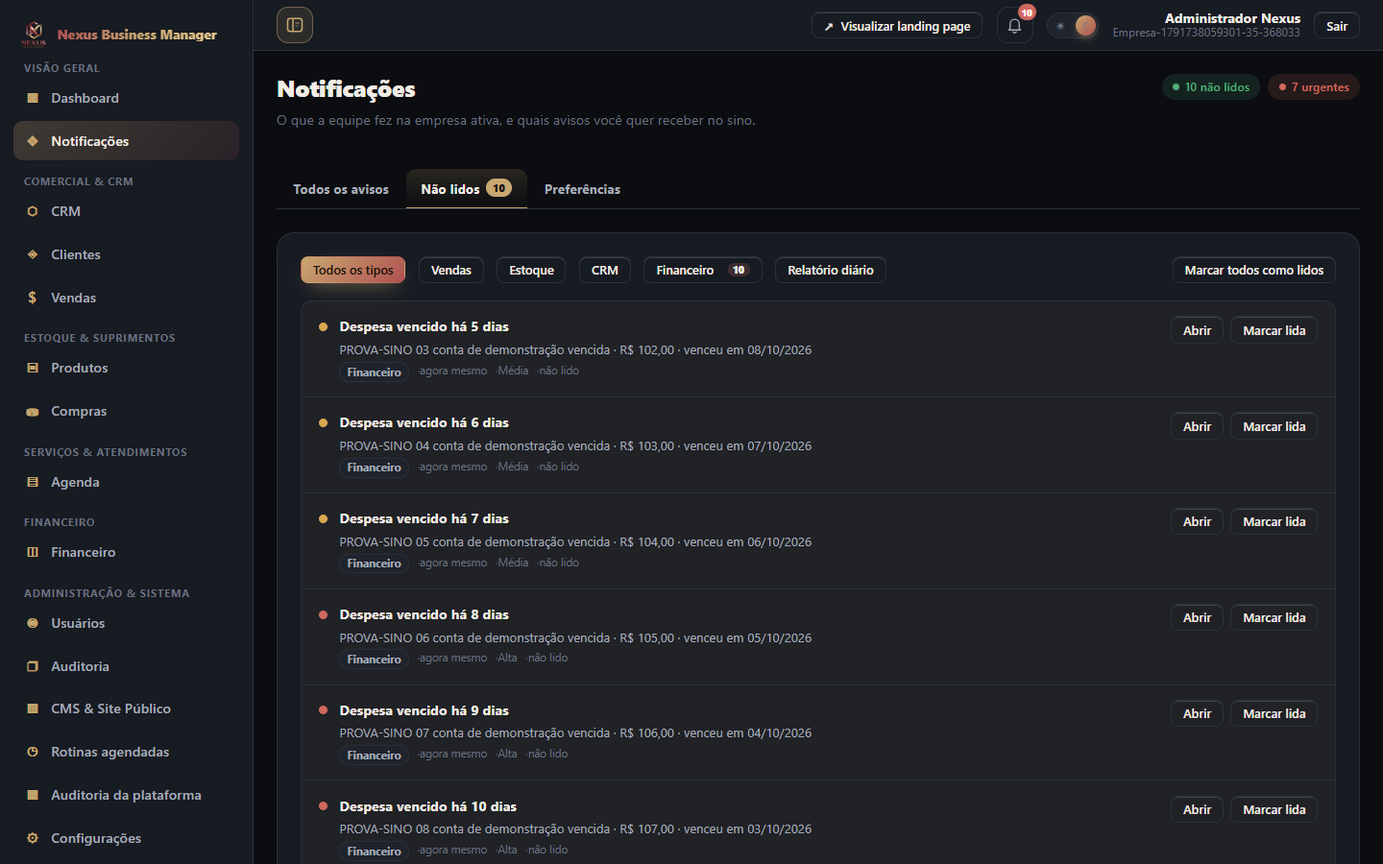
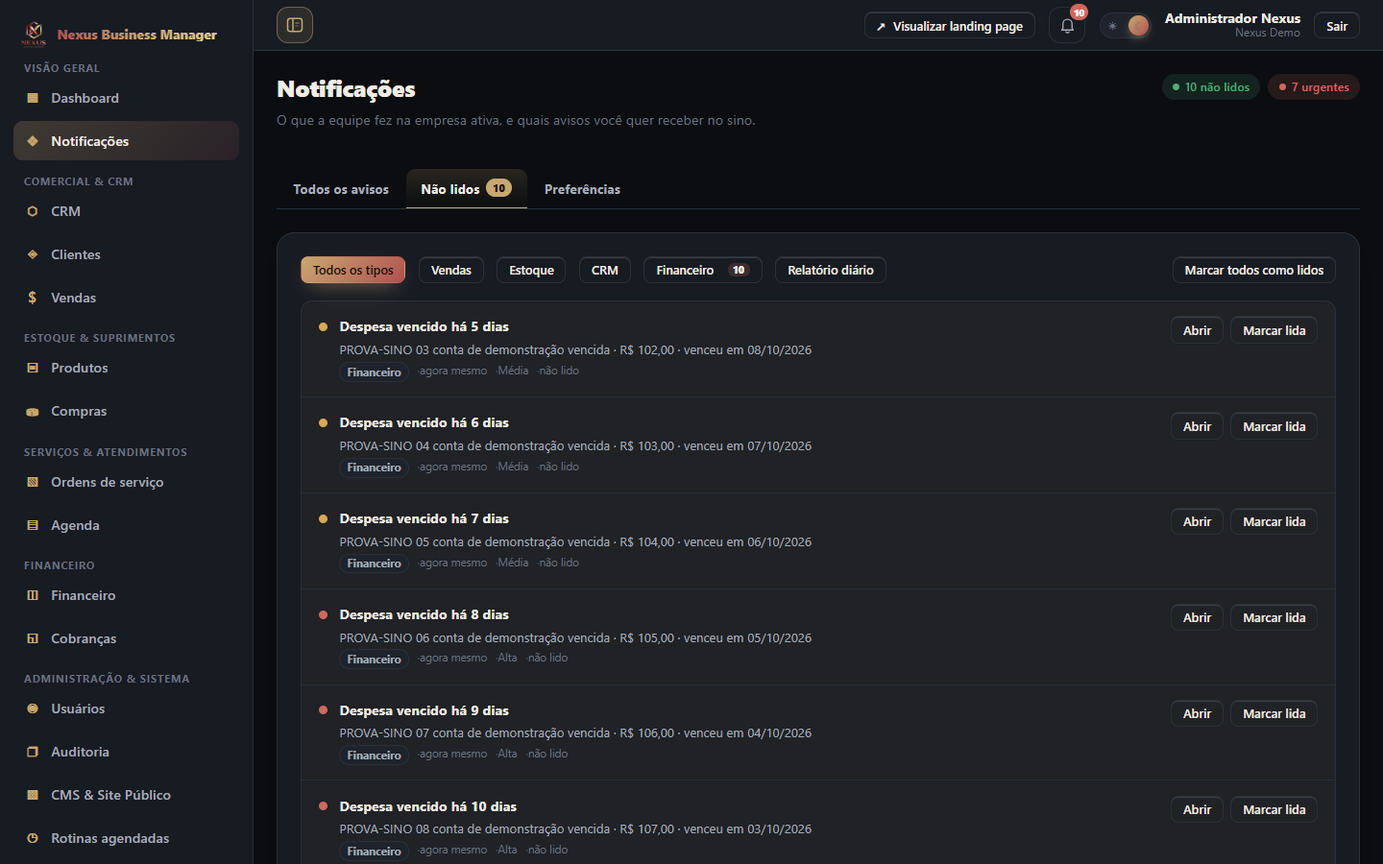
A documentação contou o banco de prova, e o N54 foi registrado com a medição na mão
Fecho da T1 (decisão D6).

- docs/adr/0010-banco-de-prova-separado.md: a decisão inteira, com o que foi
  medido antes (42 das 45 empresas do banco de desenvolvimento com nome de
  helper de teste), as sete regras de endereçamento e o que ficou mais caro.
- docs/AUDITORIA.md ganhou N54 e N55. O N55 fecha o vazamento das provas para o
  banco de desenvolvimento, com a linha órfã listada antes de apagar e o
  resultado bom e o vermelho da conferência. O N54 fica ABERTO, com a medição:
  aplicada num schema de descarte, a cadeia de vinte migrations para na segunda
  com P3018 / erro 1826 (Duplicate foreign key constraint name
  'company_users_user_id_fkey'), porque 13 das 20 re-declaram as mesmas chaves
  estrangeiras e em MySQL o nome da constraint é único por banco. É trabalho da
  F8 consertar o clone limpo, e o remendo não pode editar migration aplicada.
- README: o banco de prova entra nos pré-requisitos, no passo a passo e na
  tabela de atalhos, com a limitação do N54 escrita onde o leitor ia tropeçar.
- docs/STATUS-AJUSTES.md: a linha da T1 no formato da seção 7 e o bloco de
  portões (typecheck, build, suíte, medição dos dois bancos, varredura de
  segredo sem valor impresso, BOM/CR/caractere não latino em 45 arquivos).
- As cinco capturas de notificação foram refatas e entram: a casa de
  demonstração do banco de prova tem seis avisos, e o banco de desenvolvimento
  carregava onze, sendo cinco sobra de corrida antiga. As quatro de ordens de
[…]

diff --git a/docs/adr/0010-banco-de-prova-separado.md b/docs/adr/0010-banco-de-prova-separado.md
@@ -1,0 +1,67 @@
+# ADR-0010 — Banco de prova separado: teste nenhum escreve no banco de quem está trabalhando
+
+- Status: Aceita (2026-10-13)
+- Contexto: decisão **D6** do dono no prompt de continuação de 2026-10-13, e §4 do contrato permanente da
+  IDE ("testes e provas nunca usam o banco de desenvolvimento"). O que foi medido antes de decidir:
+  `apps/api/vitest.config.ts` não injetava endereço de banco nenhum, então a suíte herdava o `DATABASE_URL`
+  do `apps/api/.env` — o mesmo endereço do servidor de desenvolvimento. Sete provas de navegador
+  (`verify-auditoria-plataforma`, `verify-cobrancas`, `verify-configuracoes`, `verify-ordens-de-servico`,
+  `verify-parcelamento`, `verify-rotinas`, `verify-notificacoes`) abriam um `PrismaClient` próprio lendo o
+  mesmo arquivo. Consequência medida nesta rodada, no banco de desenvolvimento: **45 empresas, das quais 42
+  com o nome do padrão dos helpers de teste** (`Empresa-<epoch>-<n>-<rand>`), e um usuário de prova
+  ("Tecnico de Prova", sem vínculo, sem sessão, criado às 20:40 de 2026-10-13) deixado por uma prova que
+  falhou no meio. Não é sujo de propósito: é o preço de duas coisas legítimas — o desenvolvedor olhar a
+  própria tela que a suíte acabou de escrever, e o dado de demonstração sumir no meio de uma corrida.
+- Decisão:
+  1. **Nome combinado, não variável de humor.** O banco de prova se chama `nexusbusinessmanager_teste` e é
+     declarado em `DATABASE_URL_TESTE`. O nome é uma constante no código (`tools/banco-de-prova.cjs` e
+     `apps/api/vitest.config.ts`), e as duas pontas se recusam a trabalhar sem ele: faltar a variável, o nome
+     ser outro, ou o `DATABASE_URL` de desenvolvimento apontar para o mesmo banco — nos três casos a prova
+     para com mensagem dizendo o que falta, sem imprimir credencial.
+  2. **A suíte recebe o endereço, não o herda.** `apps/api/vitest.config.ts` injeta `DATABASE_URL` com o
+     valor de `DATABASE_URL_TESTE` no processo de teste. O caso vermelho desta decisão mora em
+     `apps/api/test/banco-de-teste-separado.test.ts`: ele abre um segundo cliente no endereço do `.env` de
+     desenvolvimento, conta tabela por tabela, escreve pela suíte, e exige que os números do lado do
+     desenvolvimento sejam os mesmos antes e depois.
+  3. **Prova de navegador só escreve depois de conferir o servidor.** Toda `tools/verify-*.cjs` e todo
+     `tools/shoot-*.cjs` chama `conferirServidorDeProva()` antes de abrir o navegador: a função entra na API
+     pela porta de login com a conta de prova, pega o `id` que a API devolve e exige que esse `id` exista no
+     banco de prova. Se o servidor atendendo a porta 3001 estiver no banco de desenvolvimento, a conferência
+     falha ali, com HTTP 401 e a instrução de subir `npm run dev:api:teste`. O resultado bom fica em cache
+     por cinco minutos em arquivo temporário, porque `/auth/login` tem limite de dez tentativas por minuto e
+     trinta provas na mesma janela estourariam o próprio limite.
+  4. **Quem abre o banco por conta própria usa o cliente de prova.** As sete provas que escrevem direto no
+     banco não constroem mais `PrismaClient`: chamam `clienteDoBancoDeProva()`. Os dois carregamentos do
+     `.env` de desenvolvimento que existiam nesses arquivos (um `dotenv.config` em seis deles e um parser
+     manual no sétimo) foram apagados — a prova nem vê mais o endereço de desenvolvimento.
+  5. **O banco de prova se monta com `npm run db:prova`.** `tools/preparar-banco-de-prova.cjs` cria o schema
+     se não existir, aplica o que estiver pendente, roda a semente com as variáveis de ambiente do banco de
+     prova e grava a conta de prova. **A cadeia versionada de migrations não reergue um MySQL vazio** — ver
+     N54 em `docs/AUDITORIA.md`, medido nesta rodada com `migrate deploy` num schema de descarte: quebra na
+     segunda migration com `P3018` / erro 1826 (`Duplicate foreign key constraint name
+     'company_users_user_id_fkey'`). Enquanto o N54 não for fechado, o banco de prova nasce de
+     `prisma db push --skip-generate` e as vinte migrations são marcadas como aplicadas com
+     `migrate resolve --applied`, o que deixa o `_prisma_migrations` igual ao do desenvolvimento.
+  6. **A conta de prova é fictícia e a senha não vai para o repositório.** `administrador@exemplo.test`
+     (domínio reservado para teste), nome "Administrador de Prova", senha gerada com vinte e quatro
+     caracteres aleatórios na primeira execução e guardada em `tools/prova-admin.local.json`, arquivo
+     ignorado pelo git. As variáveis `NEXUS_PROVA_ADMIN_EMAIL` e `NEXUS_PROVA_ADMIN_SENHA` mandam quando
+     existirem. Nenhum valor de credencial é impresso em log, teste, captura ou documento.
+  7. **Limpeza tem backup antes, e lista antes de apagar.** Antes de qualquer mudança neste bloco o banco de
+     desenvolvimento foi despejado para fora do repositório: `C:/Users/<usuario>/backups-nexus/`
+     (`mysqldump`, ~14 MB, arquivo que nunca entra no git). A única linha apagada do banco de desenvolvimento
+     foi a que a prova deixou sozinha, depois de conferida relação por relação (zero vínculos, zero sessões,
+     zero auditoria, zero ordens) e listada antes.
+- Consequências:
+  - Subir a API com `npm run dev` e rodar uma prova dá erro em vez de escrever no lugar errado. Para as
+    provas existe `npm run dev:api:teste`.
+  - As capturas das telas de notificação (`docs/screenshots/21-*.png`) mudaram de conteúdo: a casa de
+    demonstração do banco de prova tem seis avisos, e o banco de desenvolvimento vinha carregando onze,
+    sendo cinco sobras de corridas antigas. As quatro capturas de ordens de serviço foram descartadas — o
+    conteúdo é o mesmo, só mudou o ruído de compressão do PNG.
+  - O banco de desenvolvimento continua com as 42 empresas de teste que a suíte deixou nele antes desta
+    decisão. Nada foi apagado delas: a D6 manda investigar a origem, e a origem está medida acima; apagar em
+    massa sem o dono decidir é a parte destrutiva, e fica segurada aqui, em `docs/STATUS-AJUSTES.md`.
+  - O `npm test` passou a depender de um banco de prova existente. A porta de entrada está documentada em
+    `README.md` e em `docs/ESTADO-ATUAL.md`; quem clonar o repositório e não tiver o banco vê a mensagem com
+    o comando que falta.

diff --git a/docs/AUDITORIA.md b/docs/AUDITORIA.md
@@ -1650,3 +1650,58 @@ numeração. A execução desta rodada usa como identificador a tarefa do prompt
 o achado já registrado nesta casa (`N...`) e a decisão do dono (`D1`..`D14`). Nada de conteúdo foi
 adicionado nem removido por causa disso: quem ler o `docs/STATUS-AJUSTES.md` daqui em diante encontra o
 mesmo contrato, só com numeração diferente.
+
+### N54 — a cadeia versionada de migrations não reergue um banco MySQL vazio (aberto, é trabalho da T7)
+
+Medido nesta rodada, com um schema de descarte criado só para isso e apagado no `finally`:
+`prisma migrate deploy` contra um banco sem nenhuma tabela encontra as **20 migrations**, aplica
+`20261010154418_init_foundation`, e para na segunda com `Error: P3018` — `Database error code: 1826`,
+`Duplicate foreign key constraint name 'company_users_user_id_fkey'`, "check the query number 2 from the
+migration file". O schema fica com 7 tabelas e a cadeia não continua. A causa é contável no repositório:
+**13 das 20 migrations** declaram de novo o mesmo `company_users_company_id_fkey` (e o par com
+`user_id`), no formato `ALTER TABLE ... ADD CONSTRAINT ... FOREIGN KEY`, que é o molde do Prisma para
+banco novo. Em PostgreSQL o nome da constraint é por tabela; em MySQL é **por banco** — então a primeira
+migration já criou a constraint, e a segunda não consegue criar uma com o mesmo nome.
+
+Por que isso importa fora do curiosidade: a F8 exige "clone limpo reproduzível", e o caminho publicado no
+`README.md` é `npm run db:migrate`. Ele não funciona num MySQL zerado hoje. Também é o motivo pelo qual o
+banco de prova da decisão D6 nasceu de `prisma db push --skip-generate` com as vinte migrations marcadas
+como aplicadas (`migrate resolve --applied`) — ver `docs/adr/0010-banco-de-prova-separado.md`, item 5.
+
+O fechamento não foi improvisado aqui por duas razões. A primeira: a §5 do contrato proíbe editar migration
+já aplicada, e qualquer remendo na cadeia existente é exatamente isso. A segunda: a tarefa que pede o clone
+limpo é a T7, e a decisão de *como* reescrever a cadeia (baseline única, migrations idempotentes com
+`DROP FOREIGN KEY` antes de criar, ou caminho de bootstrap separado documentado) merece ADR próprio com a
+medição de antes e depois. Fica registrado aqui para a T7 não descobrir isso no escuro.
+
+### N55 — fechado na T1: as provas de navegador escreviam no banco de desenvolvimento
+
+O §4 do contrato diz que teste e prova nunca usam o banco de desenvolvimento. Medido nesta rodada, no banco
+de desenvolvimento: **45 empresas, das quais 42 com o nome do padrão dos helpers de teste**
+(`Empresa-<epoch>-<n>-<rand>`), duas casas de demonstração (`Nexus Demo`, `Demonstracao (minha empresa)`) e
+uma com nome digitado (`Eliane Eli (minha empresa)`, 2026-10-11) — está feita a investigação de origem que a
+D6 pedia, e nada foi apagado dessas linhas. Somado a isso, a prova de ordens de serviço deixou uma linha
+órfã no banco errado: usuário "Tecnico de Prova", criado às 20:40:09 de 2026-10-13, sem vínculo, sem sessão,
+sem auditoria e sem ordem. Ela apareceu porque a prova abriu o próprio `PrismaClient` lendo o `.env` de
+desenvolvimento enquanto a API já respondia pelo banco de prova, e a escrita falhou com
+`P2003 Foreign key constraint violated on the fields: (company_id)` — ou seja, a linha nasceu de um erro, e
+o erro só existia por causa do endereço errado.
+
+Tratamento, na ordem do contrato: listar antes (`id`, nome, data e as cinco relações conferidas, todas em
+zero), fazer o backup do banco inteiro para fora do repositório antes de qualquer limpeza
+(`mysqldump` em `C:/Users/<usuario>/backups-nexus/`, ~14 MB, nunca no git), apagar a linha única e medir o
+antes e depois (`usuarios antes: 542 | depois: 541`).
+
+Fechamento técnico: `tools/banco-de-prova.cjs` passou a ser a única porta de entrada do banco nas provas —
+`clienteDoBancoDeProva()` para as sete que escrevem direto, `conferirServidorDeProva()` nas trinta que
+escrevem pela API; os dois carregamentos do `.env` de desenvolvimento que existiam nesses arquivos foram
+apagados; `apps/api/vitest.config.ts` injeta o endereço de prova e se recusa a rodar sem ele. Prova de que
+fechou, medida nesta rodada: a suíte inteira e duas provas de navegador (`verify-ordens-de-servico.cjs`,
+103 checagens com 0 falhas, e `verify-notificacoes.cjs`, 85 checagens com 0 falhas) rodaram com o banco de
+desenvolvimento **idêntico tabela por tabela antes e depois** (`diff` das duas medições sem saída), enquanto
+o banco de prova crescia (+5 sessões, +17 linhas de auditoria, +4 movimentações de estoque).
+
+Parte do achado que fica em aberto, registrada em vez de escondida: entre 20:30 e 20:34 o banco de
+desenvolvimento ganhou duas sessões e quatro linhas de auditoria de logins reais da conta
+"Administrador Nexus". **NÃO VERIFICADO** quem foi: as ferramentas rodadas nesta sessão não respondem por
+eles, e a linha não foi tocada.

diff --git a/docs/STATUS-AJUSTES.md b/docs/STATUS-AJUSTES.md
@@ -128,6 +128,7 @@ F5.1 a F5.7) não são citáveis. Numeração adotada: tarefa do prompt de conti
 | Tarefa | Situação | Commit | Evidência | Achados |
 |---|---|---|---|---|
 | T0. Retomada: ler o contrato, conferir a árvore, registrar o ponto de partida | FEITA | base publicada `0d80215`; o commit que traz esta linha fecha a T0 | `git status --porcelain` vazio; `git rev-parse HEAD` = `git ls-remote origin HEAD` = `0d802154461cc8ce53018131ea6e3250a24c4986`; tabela F0→F9 lida em `docs/STATUS-AJUSTES.md:32-37` com F4, F5, F6, F7, F8 e F9 em `PENDENTE`; `ls .ia` sem diretório | N53 |
+| T1. Banco de teste separado, com as provas fora do banco de desenvolvimento (D6) | FEITA | dois commits desta rodada; o que traz esta linha fecha a T1 | Vermelho medido antes da mudança: `apps/api/test/banco-de-teste-separado.test.ts` caiu com `expected { users: 542, companies: 46, ... } to deeply equal { users: 541, companies: 45, ... }` — a suíte escrevia no banco de desenvolvimento. Verde depois: suíte inteira no banco de prova, e as duas provas de navegador regravadas (`tools/verify-ordens-de-servico.cjs` 103 checagens / 0 falhas, `tools/verify-notificacoes.cjs` 85 / 0) com `diff` das medições do banco de desenvolvimento **sem saída** e o banco de prova crescendo (+5 sessões, +17 auditorias, +4 movimentações). Conferência vermelha contra servidor de desenvolvimento (HTTP 401 com a instrução do comando), verde contra `npm run dev:api:teste`. Backup do banco de desenvolvimento feito antes de qualquer limpeza, fora do repositório (`mysqldump`, ~14 MB). Investigação de origem pedida pela D6: das 45 empresas do banco de desenvolvimento, 42 com nome do padrão dos helpers, 2 casas de demonstração, 1 com nome digitado; uma linha órfã deixada por prova listada e apagada (`542 → 541`) | N54, N55 |
 
 ### Portões da T0 (2026-10-13)
 
@@ -143,6 +144,38 @@ guarda de caracteres       4 passed (4), rodada isolada
 codificação                325 arquivos de texto: BOM 0, CR 0
 segredos                   0 no patch; as 30 batidas na árvore são os mesmos fixtures de teste
                            já identificados na rodada anterior, linha a linha, sem valor impresso
+```
+
+### Portões da T1 (2026-10-13)
+
+```
+npm run typecheck          falhou primeiro (4 erros no arquivo novo: índice possivelmente
+                           indefinido), verde depois de tipar a contagem — api + web sem saída
+npm run build              ok (api tsc + web vite build, 206 módulos, 10,50 s)
+npm test                   API 38 arquivos / 354 casos em 421,08 s e web 10 / 77 em 11,37 s —
+                           zero falha, zero skip, tudo contra nexusbusinessmanager_teste
+banco de desenvolvimento   medição tabela por tabela antes e depois da rodada inteira
+                           (suíte + duas provas de navegador): `diff` sem saída — 541 usuários,
+                           45 empresas, 49 vínculos, 32 tabelas, 2.186 sessões, 67.722 auditorias
+banco de prova             cresceu no lugar do outro: usuários 9 → 22, empresas 2 → 3,
+                           sessões 8 → 20, auditorias 917 → 2.735, movimentações 6 → 10
+provas de navegador        verify-ordens-de-servico.cjs 103 checagens / 0 falhas;
+                           verify-notificacoes.cjs 85 checagens / 0 falhas; conference vermelha
+                           medida na conta que não existe no banco de prova (HTTP 401 com a
+                           instrução do comando certo)
+cadeia de migrations       medida num schema de descarte criado e apagado pela própria medição:
+                           para na 2ª de 20 com P3018 / erro 1826 (N54)
+node -c tools/*.cjs        30 arquivos, zero erro de sintaxe
+guarda de caracteres       dentro da suíte (apps/api/test/caracteres-permitidos.test.ts): verde
+codificação                arquivos desta rodada: BOM 0, CR 0, UTF-8 sem caractere não latino
+segredos                   varredura das linhas adicionadas + arquivos novos: 6 batidas, todas
+                           referência de variável ou endereço inexistente; nenhum valor impresso.
+                           tools/prova-admin.local.json, tools/conta-de-captura.local.json e
+                           tools/senha-admin.local.cjs confirmados ignorados (git check-ignore)
+capturas                   21-notificacoes-*.png (5) refazem e entram: a casa de demonstração do
+                           banco de prova tem seis avisos, e o banco de desenvolvimento carregava
+                           onze, cinco deles sobra de corrida antiga. 25-ordens-*.png (4) foram
+                           descartados: conteúdo idêntico, só ruído de compressão
 ```
 
 ## Bloco A — segurança e isolamento

diff --git a/CHANGELOG.md b/CHANGELOG.md
@@ -1,5 +1,44 @@
 ## [Não lançado]
 
+### As provas ganharam um banco próprio, e o do desenvolvedor voltou a ser só do desenvolvedor (2026-10-13)
+
+- **O que a regra mandava, e o que a medição mostrou.** Teste nenhum podia escrever no banco de
+  desenvolvimento — mas podia, e escrevia. Medido antes de mexer: das **45 empresas** do banco de
+  desenvolvimento, **42 têm o nome do padrão dos helpers de teste** (`Empresa-<epoch>-<n>-<rand>`), e uma
+  prova de ordens de serviço deixou ali um usuário órfão ("Tecnico de Prova", sem vínculo, sem sessão, sem
+  auditoria) porque abriu o próprio `PrismaClient` no `.env` de desenvolvimento enquanto a API já respondia
+  pelo banco de prova. A linha foi listada relação por relação, o banco inteiro foi despejado para fora do
+  repositório antes de qualquer limpeza, e só então a linha única foi apagada (`542 → 541` usuários).
+- **Um nome combinado, duas portas novas.** `nexusbusinessmanager_teste`, declarado em `DATABASE_URL_TESTE`.
+  Faltar a variável, o nome ser outro, ou o `DATABASE_URL` apontar para o mesmo banco: nos três casos a prova
+  para e diz o que falta, sem imprimir credencial. `npm run db:prova` monta e semeia o banco de prova;
+  `npm run dev:api:teste` sobe a API nele.
+- **A prova confere o servidor antes de abrir o navegador.** Toda `tools/verify-*.cjs` e todo
+  `tools/shoot-*.cjs` chama `conferirServidorDeProva()`: entra pela porta de login da API, pega o `id` que a
+  API devolve e exige que esse `id` exista no banco de prova. Servidor no lugar errado é HTTP 401 com a
+  instrução do comando certo — vermelho medido contra o servidor de desenvolvimento antes de verde contra o
+  de prova. O resultado bom fica cinco minutos em cache, porque o login tem limite de dez tentativas por
+  minuto e trinta provas na mesma janela estourariam o próprio limite.
+- **Quem escreve direto no banco usa o cliente de prova.** As sete provas que abriam `PrismaClient` próprio
+  passaram por `clienteDoBancoDeProva()`, e os dois carregamentos do `.env` de desenvolvimento que existiam
+  nelas — um `dotenv.config` em seis e um parser manual na sétima — foram apagados: a prova nem vê mais o
+  endereço errado. A suíte recebeu o mesmo tratamento em `apps/api/vitest.config.ts`, com quatro casos
+  novos que contam tabela por tabela nos dois bancos antes e depois de escrever.
+- **Prova de que fechou.** `tools/verify-ordens-de-servico.cjs` (103 checagens, 0 falhas) e
+  `tools/verify-notificacoes.cjs` (85 checagens, 0 falhas) rodaram com o banco de desenvolvimento
+  **idêntico linha por linha antes e depois** (`diff` das duas medições sem saída), enquanto o banco de prova
+  crescia (+5 sessões, +17 linhas de auditoria, +4 movimentações de estoque). As cinco capturas de
+  notificação mudaram de conteúdo porque a casa de demonstração do banco de prova tem seis avisos, e o banco
+  de desenvolvimento carregava onze, sendo cinco sobras de corridas antigas; as quatro capturas de ordens de
+  serviço foram descartadas por serem as mesmas pixels.
+- **Achado aberto, com número (N54).** A cadeia versionada de vinte migrations não reergue um MySQL zerado:
+  aplicada num schema de descarte, ela para na segunda migration com `P3018` / erro 1826
+  (`Duplicate foreign key constraint name 'company_users_user_id_fkey'`), porque 13 das 20 re-declaram as
+  mesmas chaves estrangeiras e, em MySQL, o nome de uma constraint é único por banco. É o motivo de o banco
+  de prova nascer de `db push` com as vinte migrations marcadas como aplicadas, e é trabalho da F8 consertar
+  o caminho do clone limpo — sem editar migration já aplicada. Registrado em `docs/AUDITORIA.md` (N54, N55) e
+  em `docs/adr/0010-banco-de-prova-separado.md`.
+
 ### A cobrança nasceu no banco, no caixa e na matriz de permissões (2026-10-13)
 
 - **O carnê do balcão virou tela.** Entre o serviço concluído e o dinheiro no caixa não havia documento:

diff --git a/README.md b/README.md
@@ -677,6 +677,14 @@ add_escopo_da_auditoria → add_ordens_de_servico → add_cobrancas_manuais
 As seis migrations que chegaram na execução da auditoria trazem as linhas de reversão escritas no próprio
 SQL; nenhuma migration aplicada foi editada depois de sair — correções chegaram como migration nova.
 
+**Limitação medida, com achado aberto (N54 em `docs/AUDITORIA.md`):** a cadeia acima não reergue um MySQL
+zerado. Aplicada num schema de descarte, ela para na segunda migration
+com `P3018` / erro 1826 (`Duplicate foreign key constraint name 'company_users_user_id_fkey'`): 13 das 20
+declaram de novo as mesmas chaves estrangeiras, e em MySQL o nome de uma constraint é único por banco, não
+por tabela. Enquanto o N54 não fechar, `npm run db:migrate` serve para evoluir um banco que já existe — e o
+banco de prova nasce com `npm run db:prova`, que monta o schema pelo `db push` e marca as vinte migrations
+como aplicadas. O clone limpo de ponta a ponta é trabalho da F8.
+
 Comandos:
 
 ```bash
@@ -697,6 +705,9 @@ npm run prisma:generate -w @nexus/api           # regera o client depois de mexe
 - Node.js 20+ e npm com workspaces
 - MySQL 8 — no desenvolvimento local, o WAMP em `localhost:3306` com o banco `nexusbusinessmanager` já
   criado (o Prisma cria as tabelas, não o banco)
+- Para rodar a suíte e as provas de navegador, um segundo banco: `nexusbusinessmanager_teste`, declarado em
+  `DATABASE_URL_TESTE` no `apps/api/.env`. Teste nenhum escreve no banco que o servidor de desenvolvimento
+  está usando (`docs/adr/0010-banco-de-prova-separado.md`); sem a variável, a suíte para e diz o que falta.
 
 ### Passo a passo
 
@@ -704,12 +715,13 @@ npm run prisma:generate -w @nexus/api           # regera o client depois de mexe
 npm install
 npm run prisma:generate -w @nexus/api   # sem isto, nada compila (docs/AUDITORIA.md N9)
 cp apps/api/.env.example apps/api/.env
-# edite apps/api/.env: DATABASE_URL, JWT_ACCESS_SECRET, JWT_REFRESH_SECRET,
+# edite apps/api/.env: DATABASE_URL, DATABASE_URL_TESTE, JWT_ACCESS_SECRET, JWT_REFRESH_SECRET,
 # SUPER_ADMIN_EMAIL com o e-mail do administrador definitivo (CREDENCIAIS.md),
 # SEED_ADMIN_PASSWORD com a senha dele e SEED_DEV_PASSWORD com a senha da conta dev
 
 npm run db:migrate            # aplica as 20 migrations
 npm run db:seed               # desenvolvimento: admin global + admin@nexus.local + empresa nexus-demo (vazia)
+npm run db:prova              # banco de prova: cria nexusbusinessmanager_teste, semente e conta de prova
 # produção não usa o seed para criar o administrador: npm run admin:criar -w @nexus/api
 # (docs/PRODUCAO.md traz a ordem inteira de subida)
 ```
@@ -718,13 +730,15 @@ npm run db:seed               # desenvolvimento: admin global + admin@nexus.loca
 
 | Comando | O que faz |
 |---|---|
-| `npm run dev:api` | API em `http://localhost:3001` (prefixo `/api`), com `tsx watch` |
+| `npm run dev:api` | API em `http://localhost:3001` (prefixo `/api`), com `tsx watch`, no banco de desenvolvimento |
+| `npm run dev:api:teste` | a mesma API apontada para o banco de prova — é assim que as `tools/verify-*.cjs` sobem |
 | `npm run dev:web` | painel em `http://localhost:5173`, com proxy para `/api` |
 | `npm run typecheck` | `tsc --noEmit` nos dois apps |
-| `npm test` | suíte de integração da API contra o MySQL real |
+| `npm test` | suíte de integração da API contra o MySQL real, **no banco de prova** |
 | `npm run test:coverage` | a mesma suíte medindo a própria cobertura (instruções, ramificações, funções, linhas) |
 | `npm run build` | `tsc` da API + `vite build` do painel |
 | `npm run db:migrate` / `db:seed` | Prisma no workspace da API |
+| `npm run db:prova` | monta e semeia o banco de prova, e grava a conta de prova fora do git |
 | `npm run admin:criar` | bootstrap do administrador da plataforma — endereço de `SUPER_ADMIN_EMAIL`, senha de `ADMIN_CRIAR_SENHA`, nada de demonstração |
 
 ### Produção

diff --git a/docs/ESTADO-ATUAL.md b/docs/ESTADO-ATUAL.md
@@ -89,7 +89,7 @@ fonte é o arquivo e o `node --version` executado agora).
 | API | `typescript` | ^5.6.3 |
 | API | `vitest`, `@vitest/coverage-v8` | ^5.0.3 |
 | API | `tsx` | ^4.19.2 |
-| Banco | MySQL do WAMP | 8.4.7, schema `nexusbusinessmanager` |
+| Banco | MySQL do WAMP | 8.4.7, schema `nexusbusinessmanager` (desenvolvimento) e `nexusbusinessmanager_teste` (prova) |
 | Web | `react`, `react-dom` | ^18.3.1 |
 | Web | `vite` | ^7.3.7 |
 | Web | `react-router-dom` | ^7.18.4 |
